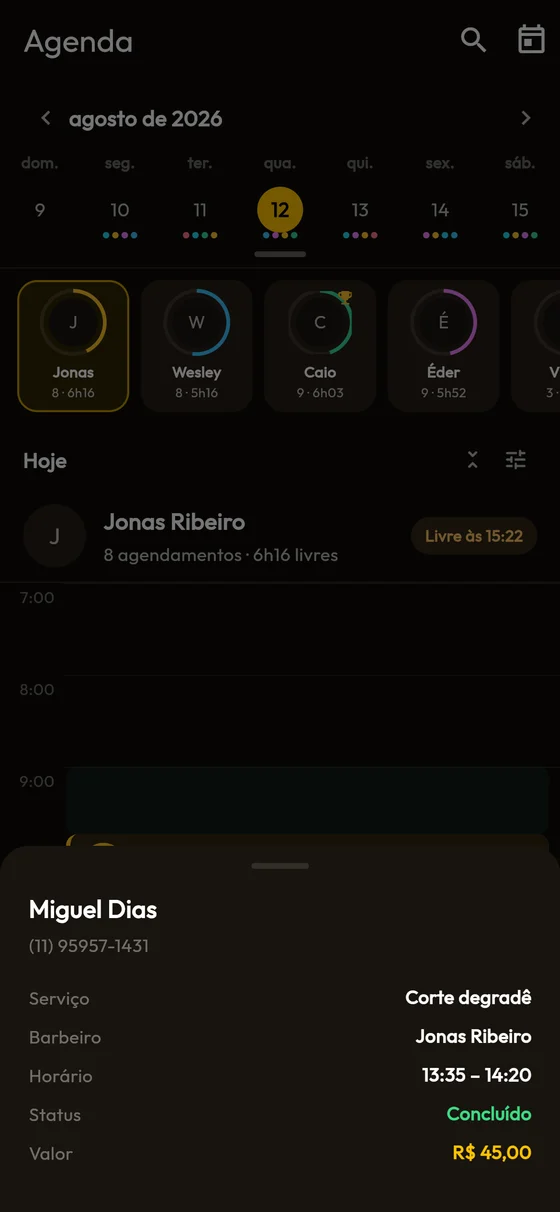
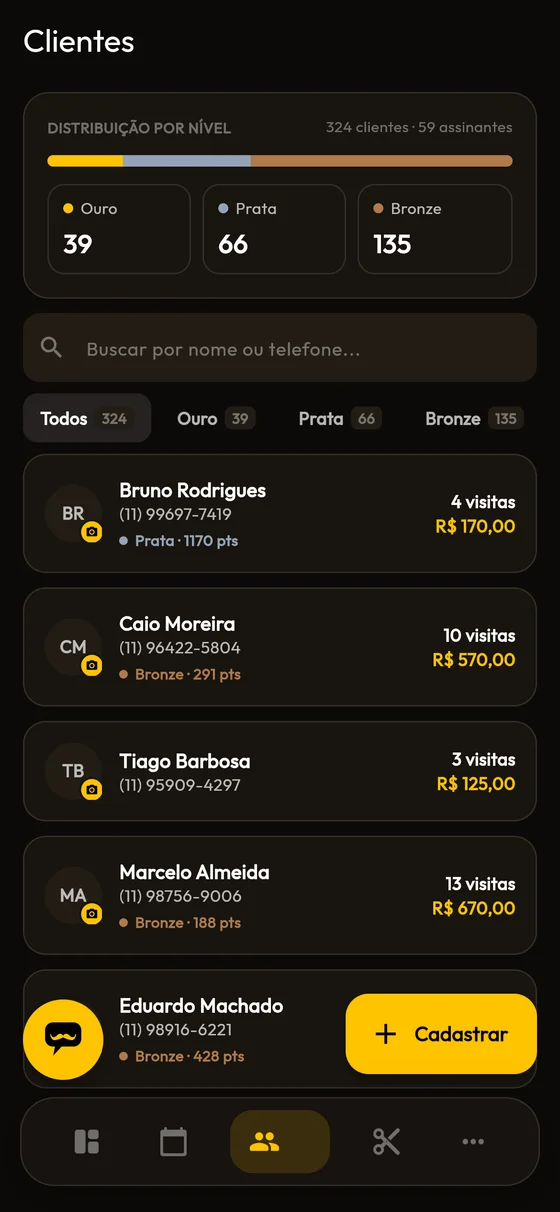
fix(landing/app): captura certa em Clientes e milhar na meta do mes
A aba Clientes mostrava a agenda na versao de celular. A barra de baixo do app
nao expoe rotulo na camada de semantica, entao a captura anterior escolheu o
destino por posicao e errou: o indice 2 abria a agenda, e Clientes esta no 3.
Agora o roteiro confere o titulo da tela que abriu antes de salvar o arquivo,
que e o passo que faltava.

E a tela de financeiro escrevia "R$ 16479 de R$ 45000". O `_brl0` de
finance_cards corta os centavos de proposito, o que faz sentido numa meta,
mas nao punha o ponto no milhar. Nasceu `reaisSemCentavos` ao lado do `reais`
que ja existia: mesma regra de milhar, sem os centavos que ali so seriam
ruido. Passa a ler "R$ 16.479 de R$ 45.000".

diff --git a/mobile/lib/core/utils/moeda.dart b/mobile/lib/core/utils/moeda.dart
@@ -22,3 +22,20 @@ String reais(num valor) {
 
   return 'R\$ ${negativo ? '-' : ''}$buffer,${centavosFinal.toString().padLeft(2, '0')}';
 }
+
+/// Dinheiro sem centavos, para numero grande onde o centavo e ruido.
+///
+/// A meta do mes e a projecao aparecem como "R$ 45.000", nao "R$ 45.000,00":
+/// ali o centavo nao ajuda ninguem a decidir nada. O que faltava era o ponto
+/// no milhar, sem o qual "R$ 16479" vira um numero que a pessoa tem que
+/// soletrar.
+String reaisSemCentavos(num valor) {
+  final inteiro = valor.round().abs();
+  final digitos = inteiro.toString();
+  final buffer = StringBuffer();
+  for (var i = 0; i < digitos.length; i++) {
+    if (i > 0 && (digitos.length - i) % 3 == 0) buffer.write('.');
+    buffer.write(digitos[i]);
+  }
+  return 'R\$ ${valor < 0 ? '-' : ''}$buffer';
+}

diff --git a/mobile/lib/features/gestor/widgets/finance_cards.dart b/mobile/lib/features/gestor/widgets/finance_cards.dart
@@ -5,8 +5,8 @@ import '../../../core/widgets/form_sheet.dart';
 import '../gestor_repository.dart';
 import '../../../core/utils/moeda.dart';
 
-String _brl(double v) => '${reais(v)}';
-String _brl0(double v) => 'R\$ ${v.toStringAsFixed(0)}';
+String _brl(double v) => reais(v);
+String _brl0(double v) => reaisSemCentavos(v);
 
 Color _methodColor(String m) {
   switch (m) {
